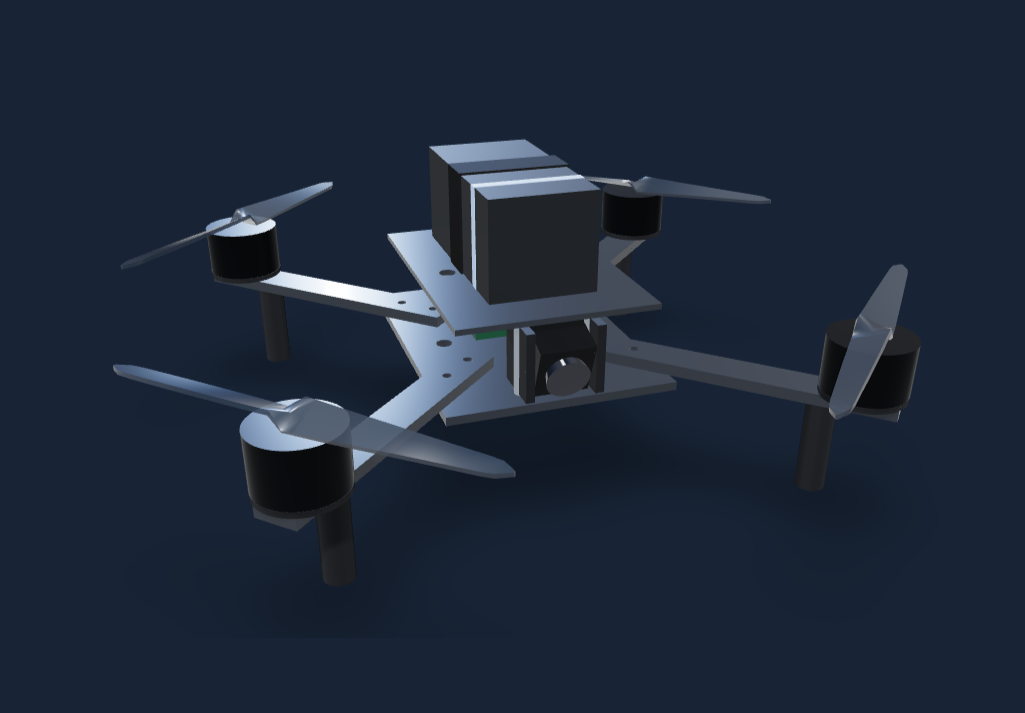
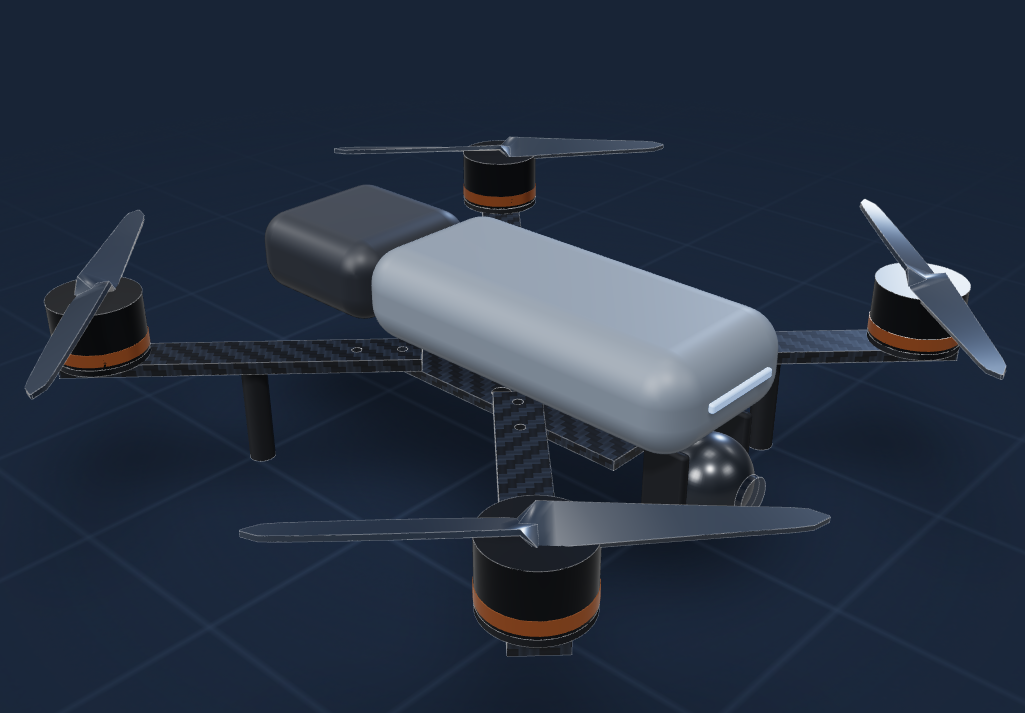
Camera drone rebuilt with a rounded body, gimbal and slotted battery
The starter drone now has a low, rounded, hollow printed body that the
carbon arms tuck under, a battery that slots into the back and continues
the body's outline, a camera ball and lens window on a gimbal under the
nose, a status light strip, slim legs and open 5 in propellers. The arms
keep their ids, names, length, width, holes and 4 mm thickness, so the
matched arm check reads the same: 1.19 mm to 0.36 mm of bend under 1 kgf
of motor thrust. A ducted variant with 4 in propellers is available as an
option. No two parts intersect in either variant, and the package exports
every part with its declared finish. The starter card stills are
re-rendered on the shared stage.

Changed region(s): [[0.0, 0.1851, 0.999, 0.9257]]

diff --git a/src/shared/drone.ts b/src/shared/drone.ts
@@ -1,28 +1,34 @@
 import type { Part, Vec3 } from './types';
 
 /**
- * Editable camera drone starter: a 250 mm wheelbase quadcopter frame in millimetres, Y up.
+ * Editable camera drone starter: a 250 mm wheelbase quadcopter in millimetres, Y up, nose at +X.
  * Dimensions are declared design inputs, not flight, airworthiness or fabrication certification.
  *
- * Layout: carbon arms sandwiched on the bottom plate along the four diagonals, motors at a
- * 125 mm radius, a top plate on four standoffs, the flight controller in the stack, the
- * battery strapped on top and the camera between two printed cheeks at the front (+X).
+ * Layout: carbon arms on the four diagonals, clamped between a carbon bottom plate and a
+ * rounded, hollow printed body shell. The battery slots into the back of the body and a gimbal
+ * hangs under the nose with the camera ball ahead of it. Motors sit at a 125 mm radius on the
+ * arm tips with open 5 in propellers; `ducts` swaps them for 4 in propellers in printed ducts.
  */
 export const DRONE_WHEELBASE_MM = 250;
 export const DRONE_ARM_THICKNESS_MM = 4;
 export const DRONE_ARM_IDS = ['arm-front-right', 'arm-front-left', 'arm-rear-left', 'arm-rear-right'] as const;
 
-const CARBON = 'Carbon fibre plate (3K twill)';
+const CARBON = 'Carbon fibre plate (3K twill)', NYLON = 'PA12 nylon, printed';
 // Declared colours follow the studio's finishes, so the in-room model looks like the studio one.
-const CARBON_GREY = '#353C46', SATIN_BLACK = '#1A1D22', CHARCOAL = '#24282E', PROP_GREY = '#2B3542', ALUMINIUM = '#8C98A6';
+const CARBON_GREY = '#353C46', SATIN_BLACK = '#1A1D22', CHARCOAL = '#262B33', PROP_GREY = '#2B3542',
+  SHELL_GREY = '#69737F', DUCT_GREY = '#3B434E', GRAPHITE = '#2A3038', LENS_BLUE = '#0E1A2A', LIGHT_BLUE = '#A2C7FF';
 const MOTOR_RADIUS = DRONE_WHEELBASE_MM / 2;
 const ARM = { inner: 28, outer: 137, width: 14 };
 const BOTTOM_TOP = 33; // Top face of the 3 mm bottom plate; the arms sit on it.
-const LEG_HEIGHT = 30;
+const ARM_TOP = BOTTOM_TOP + DRONE_ARM_THICKNESS_MM; // The body shell and the ducts rest here.
+const BODY = { front: 81, rear: -40, width: 56, height: 30, radius: 12, wall: 2 };
+const DUCT = { bore: 106, wall: 110, lip: 114, height: 20, lipHeight: 3 };
 
-export function droneParts(): Part[] {
+export function droneParts(options: { ducts?: boolean } = {}): Part[] {
+  const ducts = !!options.ducts, prop = ducts ? { inches: 4, span: 102, chord: 11 } : { inches: 5, span: 127, chord: 12 };
   const armLength = ARM.outer - ARM.inner, armCentre = (ARM.inner + ARM.outer) / 2, tip = MOTOR_RADIUS - armCentre;
-  const armY = BOTTOM_TOP + DRONE_ARM_THICKNESS_MM / 2, armTop = BOTTOM_TOP + DRONE_ARM_THICKNESS_MM;
+  const armY = BOTTOM_TOP + DRONE_ARM_THICKNESS_MM / 2;
+  const bodyY = ARM_TOP + BODY.height / 2, bodyLength = BODY.front - BODY.rear;
   const corners = [
     { key: 'front-right', label: 'front right', angle: Math.PI / 4 },
     { key: 'front-left', label: 'front left', angle: -Math.PI / 4 },
@@ -32,12 +38,12 @@ export function droneParts(): Part[] {
   // A box's local +X points along (cos θ, −sin θ) after a Y rotation θ, so θ = −angle.
   const at = (radius: number, angle: number, y: number): Vec3 => [round(radius * Math.cos(angle)), y, round(radius * Math.sin(angle))];
   const parts: Part[] = [
-    { id: 'bottom-plate', name: 'Bottom frame plate', shape: 'box', size: [110, 3, 80], position: [0, BOTTOM_TOP - 1.5, 0],
+    { id: 'bottom-plate', name: 'Bottom frame plate', shape: 'box', size: [96, 3, 50], position: [12, BOTTOM_TOP - 1.5, 0],
       color: CARBON_GREY, material: CARBON, process: 'cut',
-      holes: [{ x: -30, z: 0, diameter: 16 }, { x: 0, z: 26, diameter: 6 }, { x: 0, z: -26, diameter: 6 }] },
-    { id: 'top-plate', name: 'Top frame plate', shape: 'box', size: [100, 2, 70], position: [0, 59, 0],
-      color: CARBON_GREY, material: CARBON, process: 'cut',
-      holes: [{ x: 0, z: 24, diameter: 6 }, { x: 0, z: -24, diameter: 6 }] },
+      holes: [{ x: -30, z: 0, diameter: 16 }, { x: 0, z: 18, diameter: 6 }, { x: 0, z: -18, diameter: 6 }] },
+    // A closed, evenly thick printed shell; the flight controller sits inside it.
+    { id: 'body-shell', name: 'Body shell', shape: 'box', size: [bodyLength, BODY.height, BODY.width], edgeRadius: BODY.radius, wall: BODY.wall,
+      position: [round((BODY.front + BODY.rear) / 2), bodyY, 0], color: SHELL_GREY, material: NYLON, process: 'print' },
   ];
   for (const c of corners) {
     parts.push({
@@ -52,31 +58,38 @@ export function droneParts(): Part[] {
   }
   for (const c of corners) {
     parts.push({ id: 'motor-mount-' + c.key, name: `Motor soft mount, ${c.label}`, shape: 'cylinder', size: [28, 2, 28],
-      position: at(MOTOR_RADIUS, c.angle, armTop + 1), color: SATIN_BLACK, material: 'TPU 95A', process: 'print' });
+      position: at(MOTOR_RADIUS, c.angle, ARM_TOP + 1), color: SATIN_BLACK, material: 'TPU 95A', process: 'print' });
     parts.push({ id: 'motor-' + c.key, name: `Motor 2306 envelope, ${c.label}`, shape: 'cylinder', size: [28, 18, 28],
-      position: at(MOTOR_RADIUS, c.angle, armTop + 2 + 9), color: '#1d2127', material: 'Brushless motor 2306, 2450 KV', process: 'buy' });
-    // A two-blade 5 in propeller, across the arm so it does not hide it; bought, so it is in the parts list and the AR model.
-    parts.push({ id: 'prop-' + c.key, name: `Propeller 5 in, ${c.label}`, shape: 'box', size: [127, 3, 12],
-      position: at(MOTOR_RADIUS, c.angle, armTop + 2 + 18 + 2.5), rotation: [0, -c.angle + Math.PI / 2, 0], color: PROP_GREY,
-      material: 'Polycarbonate 5 in two-blade propeller (purchased)', process: 'buy' });
-    parts.push({ id: 'leg-' + c.key, name: `Landing leg, ${c.label}`, shape: 'cylinder', size: [10, LEG_HEIGHT + 3, 10],
-      position: at(MOTOR_RADIUS - 12, c.angle, (LEG_HEIGHT + 3) / 2), color: SATIN_BLACK, material: 'TPU 95A', process: 'print' });
+      position: at(MOTOR_RADIUS, c.angle, ARM_TOP + 2 + 9), color: '#1d2127', material: 'Brushless motor 2306, 2450 KV', process: 'buy' });
+    // A two-blade propeller, across the arm so it does not hide it; bought, so it is in the parts list and the AR model.
+    parts.push({ id: 'prop-' + c.key, name: `Propeller ${prop.inches} in, ${c.label}`, shape: 'box', size: [prop.span, 3, prop.chord],
+      position: at(MOTOR_RADIUS, c.angle, ARM_TOP + 2 + 18 + 1.5), rotation: [0, -c.angle + Math.PI / 2, 0], color: PROP_GREY,
+      material: `Polycarbonate ${prop.inches} in two-blade propeller (purchased)`, process: 'buy' });
+    // The duct rests on the arm and rises past the propeller; a wider rolled lip guides air in at the top.
+    if (ducts) parts.push({ id: 'duct-' + c.key, name: `Propeller duct, ${c.label}`, shape: 'tube', size: [DUCT.lip, DUCT.height + DUCT.lipHeight, DUCT.lip],
+      holeDiameter: DUCT.bore, sections: [{ height: DUCT.height, diameter: DUCT.wall, bore: DUCT.bore }, { height: DUCT.lipHeight, diameter: DUCT.lip, bore: DUCT.bore }],
+      position: at(MOTOR_RADIUS, c.angle, ARM_TOP + (DUCT.height + DUCT.lipHeight) / 2), color: DUCT_GREY, material: NYLON, process: 'print' });
+    parts.push({ id: 'leg-' + c.key, name: `Landing leg, ${c.label}`, shape: 'cylinder', size: [8, BOTTOM_TOP, 8],
+      position: at(80, c.angle, BOTTOM_TOP / 2), color: SATIN_BLACK, material: 'TPU 95A', process: 'print' });
   }
-  for (const [x, z] of [[46, 12], [46, -12], [-46, 12], [-46, -12]] as const)
-    parts.push({ id: `standoff-${x > 0 ? 'front' : 'rear'}-${z > 0 ? 'right' : 'left'}`, name: 'M3 aluminium standoff, 25 mm', shape: 'tube',
-      size: [5, 25, 5], holeDiameter: 2.5, position: [x, BOTTOM_TOP + 12.5, z], color: ALUMINIUM, material: 'Aluminum 6061-T6', process: 'buy' });
   parts.push(
-    { id: 'flight-controller', name: 'Flight controller stack, 30.5 mm', shape: 'box', size: [36, 6, 36], position: [-4, BOTTOM_TOP + 9, 0],
+    { id: 'flight-controller', name: 'Flight controller stack, 30.5 mm', shape: 'box', size: [36, 6, 36], position: [16, ARM_TOP + BODY.wall + 3.5, 0],
       color: '#2f6b4f', material: 'FR-4 circuit board (purchased)', process: 'buy',
       holes: [{ x: 15.25, z: 15.25, diameter: 3.2 }, { x: 15.25, z: -15.25, diameter: 3.2 }, { x: -15.25, z: 15.25, diameter: 3.2 }, { x: -15.25, z: -15.25, diameter: 3.2 }] },
-    { id: 'battery', name: '4S 1300 mAh battery envelope', shape: 'box', size: [75, 35, 38], position: [-4, 60 + 17.5, 0],
+    // Slots into the back of the body and continues its outline, a little smaller so the seam shows.
+    { id: 'battery', name: '4S 1300 mAh battery envelope', shape: 'box', size: [54, 27, 52], edgeRadius: 10, position: [BODY.rear - 27, ARM_TOP + 13.5, 0],
       color: CHARCOAL, material: 'LiPo pack (purchased envelope)', process: 'buy' },
-    { id: 'camera-mount-left', name: 'Camera mount, left cheek', shape: 'box', size: [20, 24, 3], position: [45, BOTTOM_TOP + 12.5, -12],
+    { id: 'camera-mount-left', name: 'Camera mount, left cheek', shape: 'box', size: [14, 22, 3], edgeRadius: 1.2, position: [70, ARM_TOP - 11, -15],
       color: SATIN_BLACK, material: 'TPU 95A', process: 'print' },
-    { id: 'camera-mount-right', name: 'Camera mount, right cheek', shape: 'box', size: [20, 24, 3], position: [45, BOTTOM_TOP + 12.5, 12],
+    { id: 'camera-mount-right', name: 'Camera mount, right cheek', shape: 'box', size: [14, 22, 3], edgeRadius: 1.2, position: [70, ARM_TOP - 11, 15],
       color: SATIN_BLACK, material: 'TPU 95A', process: 'print' },
-    { id: 'camera', name: '19 mm camera module envelope', shape: 'box', size: [19, 19, 19], position: [45, BOTTOM_TOP + 12.5, 0],
-      rotation: [0, 0, -0.35], color: '#15181c', material: 'Camera module (purchased)', process: 'buy' },
+    { id: 'camera', name: 'Camera ball, 26 mm gimbal envelope', shape: 'ellipsoid', size: [26, 26, 26], position: [74, 22, 0],
+      color: GRAPHITE, material: 'Camera module (purchased)', process: 'buy' },
+    // Lens window on the camera's +X axis.
+    { id: 'camera-lens', name: 'Camera lens window', shape: 'cylinder', size: [12, 2, 12], position: [88, 22, 0], rotation: [0, 0, -Math.PI / 2],
+      color: LENS_BLUE, material: 'Optical glass window (purchased)', process: 'buy' },
+    { id: 'status-light', name: 'Status light strip', shape: 'box', size: [2, 3, 28], edgeRadius: 0.8, position: [BODY.front + 1, ARM_TOP + BODY.height / 2 + 1, 0],
+      color: LIGHT_BLUE, material: 'LED light strip (purchased)', process: 'buy' },
   );
   return parts;
 }

diff --git a/tests/drone.test.ts b/tests/drone.test.ts
@@ -18,8 +18,15 @@ describe("camera drone starter", () => {
     expect(parts.filter(p => /^motor-(front|rear)/.test(p.id))).toHaveLength(4);
     expect(count("prop-")).toBe(4);
     expect(count("leg-")).toBe(4);
-    expect(parts.filter(p => p.id.endsWith("-plate"))).toHaveLength(2);
-    for (const id of ["battery", "flight-controller", "camera-mount-left", "camera-mount-right"]) expect(parts.some(p => p.id === id)).toBe(true);
+    expect(parts.filter(p => p.id.endsWith("-plate"))).toHaveLength(1);
+    for (const id of ["battery", "flight-controller", "camera-mount-left", "camera-mount-right", "camera", "camera-lens", "status-light"]) expect(parts.some(p => p.id === id)).toBe(true);
+    // A low rounded body the arms tuck under, not a box stacked on top: a hollow printed shell, the battery behind it.
+    const shell = parts.find(p => p.id === "body-shell")!, battery = parts.find(p => p.id === "battery")!, arm = parts.find(p => p.id === "arm-front-right")!;
+    expect(shell).toMatchObject({ shape: "box", edgeRadius: 12, wall: 2, process: "print" });
+    expect(shell.position[1] - shell.size[1] / 2).toBeCloseTo(arm.position[1] + arm.size[1] / 2, 6);
+    expect(battery.position[0] + battery.size[0] / 2).toBeCloseTo(shell.position[0] - shell.size[0] / 2, 6);
+    expect(battery.position[1] - battery.size[1] / 2).toBeCloseTo(shell.position[1] - shell.size[1] / 2, 6);
+    expect(parts.find(p => p.id === "camera")).toMatchObject({ shape: "ellipsoid", size: [26, 26, 26] });
     // Bought parts, never reference envelopes: they belong in the parts list and the in-room model.
     expect(parts.filter(p => p.id.startsWith("prop-") || /^motor-(front|rear)/.test(p.id) || p.id === "battery" || p.id === "flight-controller")
       .every(p => p.process === "buy" && p.role !== "reference")).toBe(true);
@@ -44,6 +51,15 @@ describe("camera drone starter", () => {
       // Every hole is a pointable feature of the arm.
       expect(partFeatures(arm).filter(f => f.feature.kind === "hole")).toHaveLength(5);
     }
+  });
+
+  it("offers ducted propellers as a variant with the same arms and motors", () => {
+    const ducted = droneParts({ ducts: true }), open = droneParts();
+    expect(ducted.filter(p => p.id.startsWith("duct-"))).toHaveLength(4);
+    expect(open.some(p => p.id.startsWith("duct-"))).toBe(false);
+    for (const id of DRONE_ARM_IDS) expect(ducted.find(p => p.id === id)).toEqual(open.find(p => p.id === id));
+    const d = { ...createDesign("custom", "Camera drone", ducted), id: "ducted", createdAt: "", updatedAt: "" };
+    validateDesign(d);
   });
 
   it("thickens the arms 4 to 6 mm through a spoken-style edit and through the version helper", () => {

diff --git a/tests/drone_shapes_test.py b/tests/drone_shapes_test.py
@@ -1,0 +1,112 @@
+from __future__ import annotations
+
+import json
+import math
+import subprocess
+from pathlib import Path
+
+import cadquery as cq
+import pytest
+
+from cad.build import build_package
+from cad.geometry import DesignError, analytic_volume, bounds, find_interferences, local_shape
+
+ROOT = Path(__file__).resolve().parents[1]
+BASE = {"id": "p", "name": "Part", "material": "PA12 nylon, printed", "color": "#69737F", "process": "print", "position": [0, 0, 0]}
+
+
+@pytest.fixture(scope="session")
+def drones():
+    code = """
+import {createDesign, deriveDesign} from './src/shared/engine.ts';
+import {droneParts} from './src/shared/drone.ts';
+const out={};
+for (const [key, ducts] of [['open', false], ['ducted', true]]) {
+  const d={...createDesign('custom','Camera drone',droneParts({ducts})),id:'drone-'+key,createdAt:'2026-11-10T00:00:00.000Z',updatedAt:'2026-11-10T00:00:00.000Z'};
+  out[key]={design:d,derived:deriveDesign(d),history:[]};
+}
+console.log(JSON.stringify(out));
+"""
+    result = subprocess.run(["node", "--import", "tsx", "--input-type=module", "-e", code], cwd=ROOT, check=True, capture_output=True, text=True)
+    return json.loads(result.stdout)
+
+
+@pytest.mark.parametrize("extra", [
+    {"shape": "ellipsoid", "size": [26, 26, 26]},
+    {"shape": "ellipsoid", "size": [60, 150, 60], "rotation": [0, 0, math.pi / 2]},
+    {"shape": "ellipsoid", "size": [80, 30, 80]},
+    {"shape": "box", "size": [121, 30, 56], "edgeRadius": 12},
+    {"shape": "box", "size": [121, 30, 56], "edgeRadius": 12, "wall": 2},
+])
+def test_new_shapes_are_exact_and_survive_step(extra, tmp_path):
+    part = {**BASE, **extra}
+    shape = local_shape(part)
+    assert shape.isValid() and len(shape.Solids()) == 1
+    assert math.isclose(shape.Volume(), analytic_volume(part), rel_tol=1e-8)
+    assert all(math.isclose(a, b, abs_tol=1e-4) for a, b in zip(bounds(shape)["size"], part["size"]))
+    path = tmp_path / "part.step"
+    cq.exporters.export(shape, str(path), "STEP")
+    reopened = cq.importers.importStep(str(path)).val()
+    assert math.isclose(reopened.Volume(), shape.Volume(), rel_tol=1e-7)
+
+
+def test_rounded_box_volume_matches_a_sphere_swept_box():
+    part = {**BASE, "shape": "box", "size": [40, 20, 30], "edgeRadius": 5}
+    a, b, c, r = 30, 10, 20, 5
+    assert math.isclose(analytic_volume(part), a * b * c + 2 * r * (a * b + b * c + c * a) + math.pi * r * r * (a + b + c) + 4 / 3 * math.pi * r ** 3)
+    hollow = {**part, "wall": 2}
+    assert analytic_volume(hollow) < analytic_volume(part) / 2
+
+
+@pytest.mark.parametrize("extra", [
+    {"shape": "ellipsoid", "size": [26, 26, 20]},
+    {"shape": "ellipsoid", "size": [26, 26, 26], "holeDiameter": 4},
+    {"shape": "ellipsoid", "size": [26, 26, 26], "holes": [{"x": 0, "z": 0, "diameter": 3}]},
+    {"shape": "box", "size": [20, 10, 20], "edgeRadius": 5},
+    {"shape": "cylinder", "size": [20, 10, 20], "edgeRadius": 2},
+    {"shape": "box", "size": [20, 10, 20], "edgeRadius": 2, "holes": [{"x": 0, "z": 0, "diameter": 3}]},
+    {"shape": "box", "size": [20, 10, 20], "wall": 1},
+    {"shape": "box", "size": [20, 10, 20], "edgeRadius": 2, "wall": 2},
+])
+def test_invalid_new_shapes_are_rejected(extra):
+    with pytest.raises(DesignError):
+        local_shape({**BASE, **extra})
+
+
+@pytest.mark.parametrize("variant", ["open", "ducted"])
+def test_drone_parts_do_not_overlap(variant, drones):
+    assert find_interferences(drones[variant]["derived"]["parts"]) == []
+
+
+def test_interference_check_finds_an_overlap():
+    a = {**BASE, "id": "a", "shape": "box", "size": [10, 10, 10]}
+    b = {**BASE, "id": "b", "shape": "ellipsoid", "size": [10, 10, 10], "position": [5, 0, 0]}
+    c = {**BASE, "id": "c", "shape": "box", "size": [10, 10, 10], "edgeRadius": 2, "position": [0, 10, 0]}
+    found = find_interferences([a, b, c])
+    assert [(f["a"], f["b"]) for f in found] == [("a", "b")]
+    assert math.isclose(found[0]["volumeMm3"], 2 / 3 * math.pi * 125, rel_tol=1e-3)
+
+
+def test_drone_package_exports_every_part_with_its_shape(drones, tmp_path):
+    snapshot = drones["open"]
+    result = build_package(snapshot, tmp_path / "out")
+    assert result["ok"]
+    manifest = json.loads((tmp_path / "out" / "manifest.json").read_text())
+    ids = {p["id"] for p in manifest["parts"]}
+    assert ids == {p["id"] for p in snapshot["derived"]["parts"] if p.get("role") != "reference"}
+    assert {"body-shell", "camera", "battery", "status-light"} <= ids
+    glb = (tmp_path / "out" / "assembly.glb").read_bytes()
+    assert glb[:4] == b"glTF"
+    gltf = json.loads(glb[20:20 + int.from_bytes(glb[12:16], "little")])
+    assert len(gltf["meshes"]) >= len(ids)
+
+
+def test_glb_carries_declared_finishes(drones, tmp_path):
+    build_package(drones["open"], tmp_path / "out")
+    glb = (tmp_path / "out" / "assembly.glb").read_bytes()
+    gltf = json.loads(glb[20:20 + int.from_bytes(glb[12:16], "little")])
+    finishes = {node["name"].rsplit("-", 1)[0]: gltf["materials"][gltf["meshes"][node["mesh"]]["primitives"][0]["material"]]["pbrMetallicRoughness"] for node in gltf["nodes"] if "mesh" in node}
+    # glTF's default is bare rough metal, which renders a printed shell almost black.
+    assert finishes["body-shell"]["metallicFactor"] == 0.0
+    assert finishes["motor-front-right"]["metallicFactor"] == 0.7
+    assert all("metallicFactor" in m["pbrMetallicRoughness"] for m in gltf["materials"])
